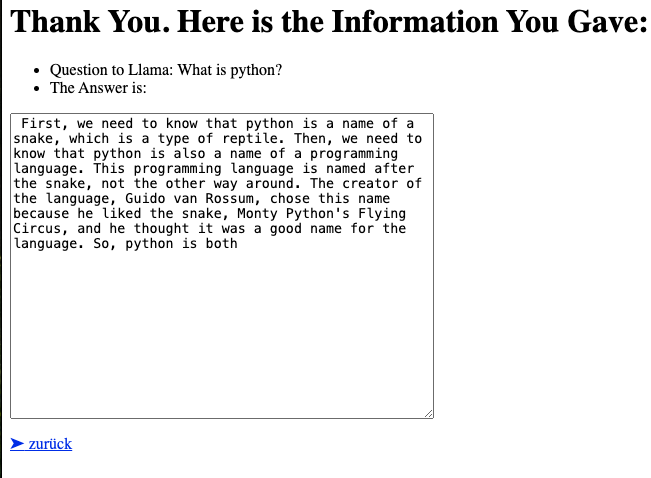
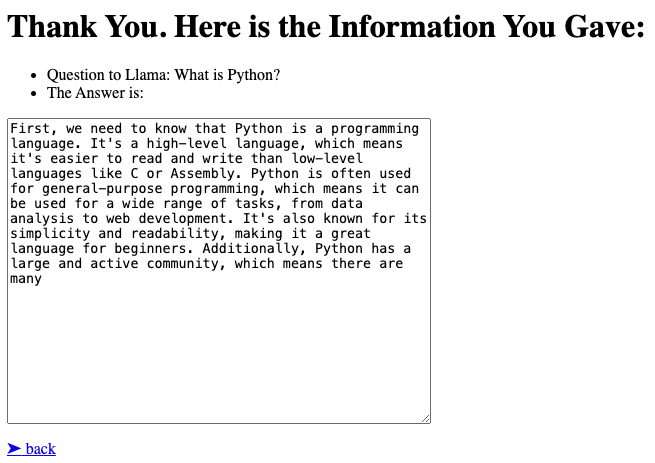
fresh commit

Changed region(s): [[0.0, 0.121, 0.6759, 0.9978], [0.0, 0.0, 1.0, 0.0907]]

diff --git a/app.py b/app.py
@@ -21,7 +21,7 @@ def return_prediction(sample_json):
 
     chain = prompt | pipe
 
-    predict = chain.invoke({"question":req1}).lstrip()
+    predict = chain.invoke({"question":req1}).strip()
     
     return predict
 
